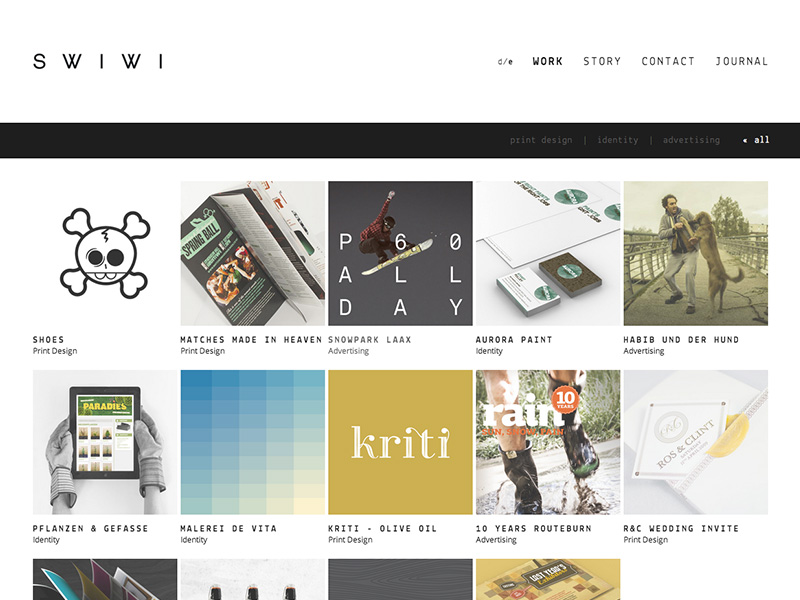
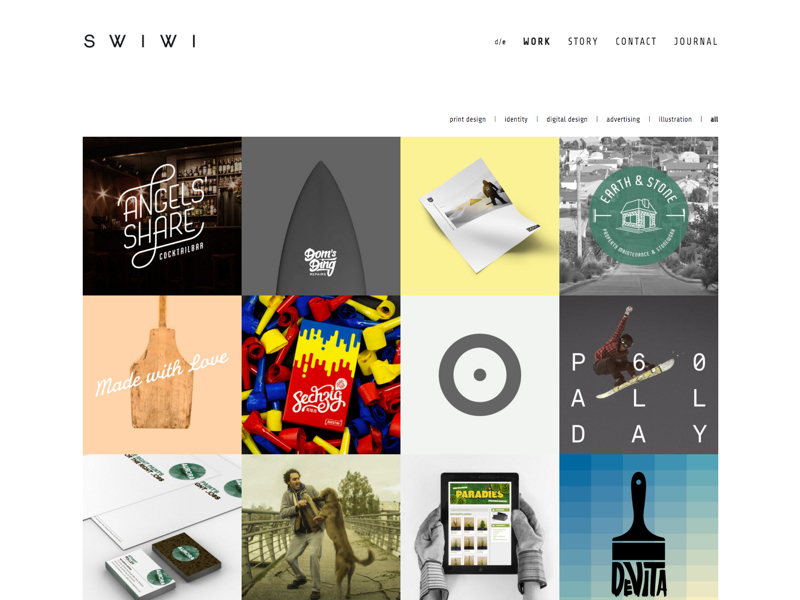
SWIWI screenshot update, removed rounded corners on thumbs.

diff --git a/css/app.min.css b/css/app.min.css
@@ -1,1 +1,1 @@
-@font-face{font-family:fontello-expo;src:url(../font/fontello-expo.eot?56518065);src:url(../font/fontello-expo.eot?56518065#iefix) format('embedded-opentype'),url(../font/fontello-expo.woff?56518065) format('woff'),url(../font/fontello-expo.ttf?56518065) format('truetype'),url(../font/fontello-expo.svg?56518065#fontello-expo) format('svg');font-weight:400;font-style:normal}.icon:before{font-family:fontello-expo;font-style:normal;font-weight:400;speak:none;display:inline-block;text-decoration:inherit;width:1em;margin-right:.2em;text-align:center;font-variant:normal;text-transform:none;line-height:1em}.masthead-lead,h1,h2,h3{font-weight:300}.icon-forward:before{content:'\e800'}html{font-size:18px}body{font-size:1rem;line-height:1.4;background-color:#fafafa}a{color:#6b8e23}a:hover{text-decoration:none}a:focus,a:hover{color:#85a24b}.media-body{vertical-align:middle}.masthead{padding:1.5rem 1.5rem 0}.masthead a{color:#6a6a6a}.masthead a:hover{color:#3a3a3a}.masthead-title{margin-top:0;margin-bottom:.75rem;font-size:2.5rem;line-height:1}.masthead-title a{color:#6b8e23}.masthead-lead{margin-bottom:.75rem;font-size:1rem;color:#8a8a8a}.masthead-lead a,.masthead-lead abbr{font-weight:400}.masthead-nav{padding-left:0;margin-bottom:0;font-size:.75rem;list-style:none}.nav-item{display:inline-block;width:49%}.nav-link{display:block;padding:.5rem 0;line-height:1.6;text-align:center}.nav-link-active{font-weight:500;color:#3a3a3a}.entry-date,.page-title+p,.related-title{font-weight:300}.masthead-hr{margin:.5rem 0;border-top-color:#eee;border-bottom:0}@media (min-width:768px){.masthead{position:absolute;top:0;bottom:0;left:0;width:35%;max-width:380px;padding:3rem 2rem}.masthead-nav{margin-bottom:.75rem}.nav-item{display:block;width:auto}.nav-link{padding:0;text-align:left}.masthead-hr{width:130px;margin:1rem 0}}.entry-content,.entry-icon,.footer,.paginator{text-align:center}@media (min-width:768px) and (min-height:700px){.masthead{position:fixed}}@media (min-width:1170px){.masthead{width:25%}}.listing{max-width:900px;padding-right:1.5rem;padding-left:1.5rem}.entry,.list,.page{margin-top:1.5rem;margin-bottom:1.5rem}@media (min-width:768px){.listing{width:65%;padding-left:0;margin-left:35%}.entry,.list,.page{margin-top:3rem;margin-bottom:3rem}}@media (min-width:1170px){.listing{width:70%;margin-right:2.5%;margin-left:27.5%}}.page{max-width:700px}.page-title{font-size:2rem}.page-title+p{margin-bottom:2rem;font-size:1.25rem}.category-list{color:#8a8a8a}.category-list>li{margin-bottom:.25rem}.resource-description{display:block;font-weight:300}.entry p{margin-bottom:0}.entry-icon{position:absolute;top:50%;right:0;left:0;font-size:6rem;color:#fff;text-shadow:0 0 3rem rgba(0,0,0,.35);opacity:0;transition-delay:.05s;-webkit-transform:translateY(-50%);-ms-transform:translateY(-50%);transform:translateY(-50%)}.entry-icon,.entry-thumb img{display:block;transition:opacity .2s linear}.entry-thumb{position:relative;display:block;background-color:#6b8e23;border-radius:3px}.entry-thumb img{width:100%;border:1px solid #fff;border-radius:3px}.entry-thumb:hover img{opacity:.2}.entry-thumb:hover .entry-icon{opacity:1}.entry-title{margin-top:1rem;margin-bottom:.25rem}.entry-title a{color:#3a3a3a}.entry-title a:hover{color:#1a1a1a}.entry-date{color:#8a8a8a}.related{padding-top:3rem;margin-top:3rem;margin-bottom:3rem;border-top:1px solid #e5e5e5}.related .entry{margin-top:.5rem;margin-bottom:1rem}.related p{font-size:.8rem}.paginator{display:block;margin:2rem -15px 0;font-weight:500;color:#999}.paginator .paginate{position:relative;display:block;padding:20px;text-align:center;border:1px solid #eee}.paginator .paginate:last-child{margin-top:-1px}.paginator a.paginate:hover{z-index:2;color:#fff;text-decoration:none;background-color:#6b8e23;border-color:#6b8e23}@media (min-width:768px){.paginator{margin:2rem auto;overflow:hidden}.paginator .paginate{float:left;width:50%}.paginator .paginate:first-child{border-top-left-radius:4px;border-bottom-left-radius:4px}.paginator .paginate:last-child{margin-top:0;margin-left:-1px;border-top-right-radius:4px;border-bottom-right-radius:4px}}.footer{padding:20px 15px;margin:30px 0;color:#999}.footer p{margin-bottom:0;font-size:14px;line-height:30px}.list{padding-left:0;list-style:none}.list li{display:block;margin-bottom:5px}.list span{float:right;color:#999}
+@font-face{font-family:fontello-expo;font-style:normal;font-weight:400;src:url(../font/fontello-expo.eot?56518065);src:url(../font/fontello-expo.eot?56518065#iefix) format('embedded-opentype'),url(../font/fontello-expo.woff?56518065) format('woff'),url(../font/fontello-expo.ttf?56518065) format('truetype'),url(../font/fontello-expo.svg?56518065#fontello-expo) format('svg')}.icon:before{display:inline-block;width:1em;margin-right:.2em;font-family:fontello-expo;font-style:normal;font-weight:400;font-variant:normal;line-height:1em;text-align:center;text-decoration:inherit;text-transform:none;speak:none}.masthead-lead,h1,h2,h3{font-weight:300}.icon-forward:before{content:'\e800'}html{font-size:18px}body{font-size:1rem;line-height:1.4;background-color:#fafafa}a{color:#6b8e23}a:hover{text-decoration:none}a:focus,a:hover{color:#85a24b}.media-body{vertical-align:middle}.masthead{padding:1.5rem 1.5rem 0}.masthead a{color:#6a6a6a}.masthead a:hover{color:#3a3a3a}.masthead-title{margin-top:0;margin-bottom:.75rem;font-size:2.5rem;line-height:1}.masthead-title a{color:#6b8e23}.masthead-lead{margin-bottom:.75rem;font-size:1rem;color:#8a8a8a}.masthead-lead a,.masthead-lead abbr{font-weight:400}.masthead-nav{padding-left:0;margin-bottom:0;font-size:.75rem;list-style:none}.nav-item{display:inline-block;width:49%}.nav-link{display:block;padding:.5rem 0;line-height:1.6;text-align:center}.nav-link-active{font-weight:500;color:#3a3a3a}.entry-date,.page-title+p,.related-title{font-weight:300}.masthead-hr{margin:.5rem 0;border-top-color:#eee;border-bottom:0}@media (min-width:768px){.masthead{position:absolute;top:0;bottom:0;left:0;width:35%;max-width:380px;padding:3rem 2rem}.masthead-nav{margin-bottom:.75rem}.nav-item{display:block;width:auto}.nav-link{padding:0;text-align:left}.masthead-hr{width:130px;margin:1rem 0}}.entry-content,.entry-icon,.footer,.paginator{text-align:center}@media (min-width:768px) and (min-height:700px){.masthead{position:fixed}}@media (min-width:1170px){.masthead{width:25%}}.listing{max-width:900px;padding-right:1.5rem;padding-left:1.5rem}.entry,.list,.page{margin-top:1.5rem;margin-bottom:1.5rem}@media (min-width:768px){.listing{width:65%;padding-left:0;margin-left:35%}.entry,.list,.page{margin-top:3rem;margin-bottom:3rem}}@media (min-width:1170px){.listing{width:70%;margin-right:2.5%;margin-left:27.5%}}.page{max-width:700px}.page-title{font-size:2rem}.page-title+p{margin-bottom:2rem;font-size:1.25rem}.category-list{color:#8a8a8a}.category-list>li{margin-bottom:.25rem}.resource-description{display:block;font-weight:300}.entry p{margin-bottom:0}.entry-icon{position:absolute;top:50%;right:0;left:0;display:block;font-size:6rem;color:#fff;text-shadow:0 0 3rem rgba(0,0,0,.35);opacity:0;transition:opacity .2s linear;transition-delay:.05s;-webkit-transform:translateY(-50%);-ms-transform:translateY(-50%);transform:translateY(-50%)}.entry-thumb{position:relative;display:block;background-color:#6b8e23}.entry-thumb img{display:block;width:100%;transition:opacity .2s linear}.entry-thumb:hover img{opacity:.2}.entry-thumb:hover .entry-icon{opacity:1}.entry-title{margin-top:1rem;margin-bottom:.25rem}.entry-title a{color:#3a3a3a}.entry-title a:hover{color:#1a1a1a}.entry-date{color:#8a8a8a}.related{padding-top:3rem;margin-top:3rem;margin-bottom:3rem;border-top:1px solid #e5e5e5}.related .entry{margin-top:.5rem;margin-bottom:1rem}.related p{font-size:.8rem}.paginator{display:block;margin:2rem -15px 0;font-weight:500;color:#999}.paginator .paginate{position:relative;display:block;padding:20px;text-align:center;border:1px solid #eee}.paginator .paginate:last-child{margin-top:-1px}.paginator a.paginate:hover{z-index:2;color:#fff;text-decoration:none;background-color:#6b8e23;border-color:#6b8e23}@media (min-width:768px){.paginator{margin:2rem auto;overflow:hidden}.paginator .paginate{float:left;width:50%}.paginator .paginate:first-child{border-top-left-radius:4px;border-bottom-left-radius:4px}.paginator .paginate:last-child{margin-top:0;margin-left:-1px;border-top-right-radius:4px;border-bottom-right-radius:4px}}.footer{padding:20px 15px;margin:30px 0;color:#999}.footer p{margin-bottom:0;font-size:14px;line-height:30px}.list{padding-left:0;list-style:none}.list li{display:block;margin-bottom:5px}.list span{float:right;color:#999}

diff --git a/css/_site/app.min.css b/css/_site/app.min.css
@@ -1,0 +1,1 @@
+@font-face{font-family:fontello-expo;font-style:normal;font-weight:400;src:url(../font/fontello-expo.eot?56518065);src:url(../font/fontello-expo.eot?56518065#iefix) format('embedded-opentype'),url(../font/fontello-expo.woff?56518065) format('woff'),url(../font/fontello-expo.ttf?56518065) format('truetype'),url(../font/fontello-expo.svg?56518065#fontello-expo) format('svg')}.icon:before{display:inline-block;width:1em;margin-right:.2em;font-family:fontello-expo;font-style:normal;font-weight:400;font-variant:normal;line-height:1em;text-align:center;text-decoration:inherit;text-transform:none;speak:none}.masthead-lead,h1,h2,h3{font-weight:300}.icon-forward:before{content:'\e800'}html{font-size:18px}body{font-size:1rem;line-height:1.4;background-color:#fafafa}a{color:#6b8e23}a:hover{text-decoration:none}a:focus,a:hover{color:#85a24b}.media-body{vertical-align:middle}.masthead{padding:1.5rem 1.5rem 0}.masthead a{color:#6a6a6a}.masthead a:hover{color:#3a3a3a}.masthead-title{margin-top:0;margin-bottom:.75rem;font-size:2.5rem;line-height:1}.masthead-title a{color:#6b8e23}.masthead-lead{margin-bottom:.75rem;font-size:1rem;color:#8a8a8a}.masthead-lead a,.masthead-lead abbr{font-weight:400}.masthead-nav{padding-left:0;margin-bottom:0;font-size:.75rem;list-style:none}.nav-item{display:inline-block;width:49%}.nav-link{display:block;padding:.5rem 0;line-height:1.6;text-align:center}.nav-link-active{font-weight:500;color:#3a3a3a}.entry-date,.page-title+p,.related-title{font-weight:300}.masthead-hr{margin:.5rem 0;border-top-color:#eee;border-bottom:0}@media (min-width:768px){.masthead{position:absolute;top:0;bottom:0;left:0;width:35%;max-width:380px;padding:3rem 2rem}.masthead-nav{margin-bottom:.75rem}.nav-item{display:block;width:auto}.nav-link{padding:0;text-align:left}.masthead-hr{width:130px;margin:1rem 0}}.entry-content,.entry-icon,.footer,.paginator{text-align:center}@media (min-width:768px) and (min-height:700px){.masthead{position:fixed}}@media (min-width:1170px){.masthead{width:25%}}.listing{max-width:900px;padding-right:1.5rem;padding-left:1.5rem}.entry,.list,.page{margin-top:1.5rem;margin-bottom:1.5rem}@media (min-width:768px){.listing{width:65%;padding-left:0;margin-left:35%}.entry,.list,.page{margin-top:3rem;margin-bottom:3rem}}@media (min-width:1170px){.listing{width:70%;margin-right:2.5%;margin-left:27.5%}}.page{max-width:700px}.page-title{font-size:2rem}.page-title+p{margin-bottom:2rem;font-size:1.25rem}.category-list{color:#8a8a8a}.category-list>li{margin-bottom:.25rem}.resource-description{display:block;font-weight:300}.entry p{margin-bottom:0}.entry-icon{position:absolute;top:50%;right:0;left:0;display:block;font-size:6rem;color:#fff;text-shadow:0 0 3rem rgba(0,0,0,.35);opacity:0;transition:opacity .2s linear;transition-delay:.05s;-webkit-transform:translateY(-50%);-ms-transform:translateY(-50%);transform:translateY(-50%)}.entry-thumb{position:relative;display:block;color:#6b8e23;border-radius:3px}.entry-thumb img{display:block;width:100%;border:1px solid #fff;border-radius:3px;transition:opacity .2s linear}.entry-thumb:hover img{opacity:.2}.entry-thumb:hover .entry-icon{opacity:1}.entry-title{margin-top:1rem;margin-bottom:.25rem}.entry-title a{color:#3a3a3a}.entry-title a:hover{color:#1a1a1a}.entry-date{color:#8a8a8a}.related{padding-top:3rem;margin-top:3rem;margin-bottom:3rem;border-top:1px solid #e5e5e5}.related .entry{margin-top:.5rem;margin-bottom:1rem}.related p{font-size:.8rem}.paginator{display:block;margin:2rem -15px 0;font-weight:500;color:#999}.paginator .paginate{position:relative;display:block;padding:20px;text-align:center;border:1px solid #eee}.paginator .paginate:last-child{margin-top:-1px}.paginator a.paginate:hover{z-index:2;color:#fff;text-decoration:none;background-color:#6b8e23;border-color:#6b8e23}@media (min-width:768px){.paginator{margin:2rem auto;overflow:hidden}.paginator .paginate{float:left;width:50%}.paginator .paginate:first-child{border-top-left-radius:4px;border-bottom-left-radius:4px}.paginator .paginate:last-child{margin-top:0;margin-left:-1px;border-top-right-radius:4px;border-bottom-right-radius:4px}}.footer{padding:20px 15px;margin:30px 0;color:#999}.footer p{margin-bottom:0;font-size:14px;line-height:30px}.list{padding-left:0;list-style:none}.list li{display:block;margin-bottom:5px}.list span{float:right;color:#999}

diff --git a/css/_site/app.css b/css/_site/app.css
@@ -280,11 +280,14 @@ h3 {
 .entry-thumb {
   position: relative;
   display: block;
-  background-color: #6b8e23;
+  color: #6b8e23;
+  border-radius: 3px;
 }
 .entry-thumb img {
   display: block;
   width: 100%;
+  border: 1px solid #fff;
+  border-radius: 3px;
   transition: opacity .2s linear;
 }
 .entry-thumb:hover img {
